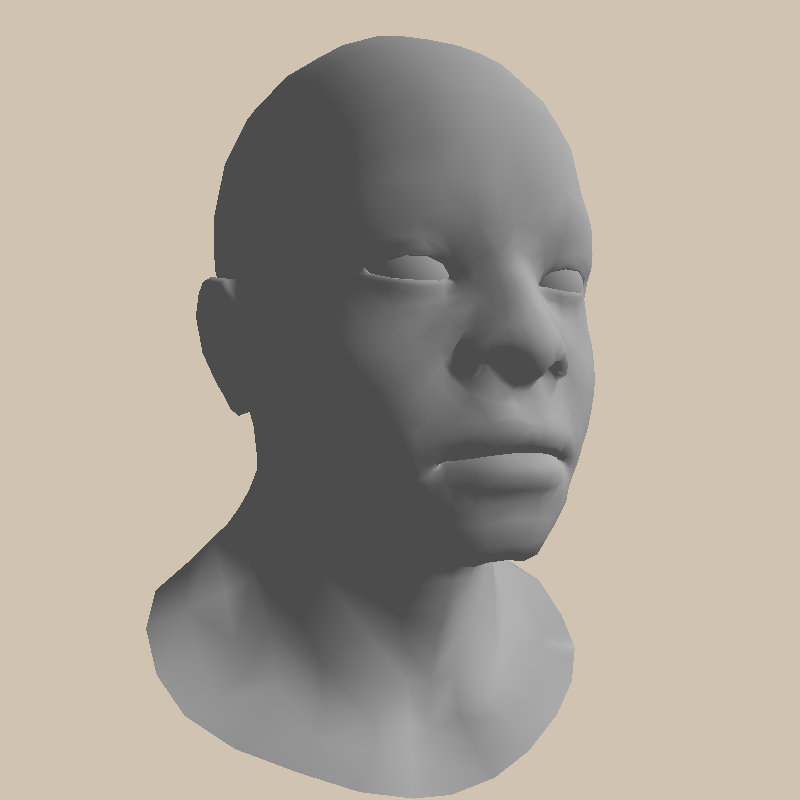
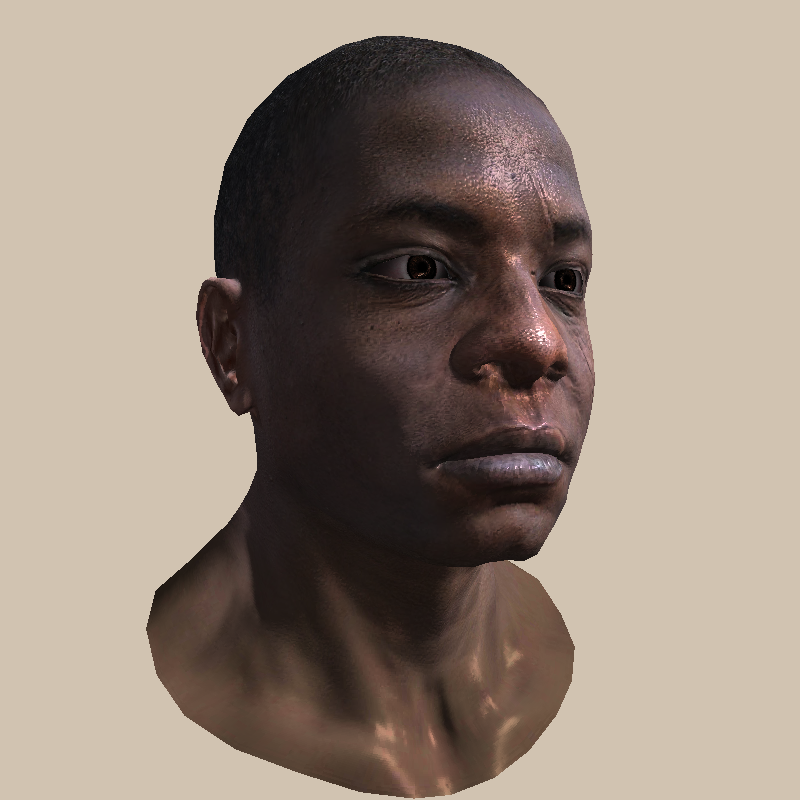
Add diffuse, normal and specular maps

diff --git a/main.cpp b/main.cpp
@@ -24,8 +24,8 @@ struct RandomShader : IShader
 	// Runs once per triangle corner: object coordinates in, clip coordinates out
 	vec4 vertex(const int face, const int vert)
 	{
-		vec3 v = model.vert(face, vert); // current vertex in object coordinates
-		vec4 gl_Position = ModelView * embed(v);
+		vec4 v = model.get_vert(face, vert); // current vertex in object coordinates
+		vec4 gl_Position = ModelView * v;
 		tri[vert] = gl_Position.xyz();	  // in eye coordinates
 		return Perspective * gl_Position; // in clip coordinates
 	}
@@ -39,68 +39,62 @@ struct RandomShader : IShader
 struct PhongShader : IShader
 {
 	const Model &model;
-	vec3 light_dir;
+	vec3 L;
+	vec3 camera;
 	double shine_exp;
-	bool smooth;
 
 	vec3 tri[3]; // triangle in eye coordinates
-	vec3 normal[3];
+	vec2 uv_tri[3];
 
-	PhongShader(const Model &model, const vec3 &light, double shine_exp)
+	PhongShader(const Model &model, const vec3 &light, double shine_exp, double cam_dist)
 		: model(model),
-		  light_dir(unit_v((ModelView * vec4{light.x, light.y, light.z, 0.}).xyz())),	// Eye coordinates
-		  shine_exp(shine_exp),
-		  smooth(true) {}
-
-	PhongShader(const Model &model, const vec3 &light, double shine_exp, bool smooth)
-		: model(model),
-		  light_dir(unit_v((ModelView * vec4{light.x, light.y, light.z, 0.}).xyz())),
-		  shine_exp(shine_exp),
-		  smooth(smooth) {}
+		  L(unit_v((ModelView * vec4{light.x, light.y, light.z, 0.})).xyz()),
+		  camera{0, 0, cam_dist},
+		  shine_exp(shine_exp)
+	{
+	}
 
 	vec4 vertex(const int face, const int vert)
 	{
-		vec3 v = model.vert(face, vert); // current vertex in object coordinates
-		vec4 gl_Position = ModelView * embed(v);
-		tri[vert] = gl_Position.xyz(); // in eye coordinates
-		normal[vert] = unit_v((ModelView * embed(model.get_normal(face, vert), 0)).xyz());
+		uv_tri[vert] = model.get_uv(face, vert);
+		vec4 gl_Position = ModelView * model.get_vert(face, vert);
+		tri[vert] = gl_Position.xyz();
 		return Perspective * gl_Position; // in clip coordinates
 	}
 
 	std::pair<bool, TGAColor> fragment(const vec3 bar) const override
 	{
-		TGAColor gl_FragColor = {255, 255, 255, 255}; // output color of the fragment
-		vec3 L = unit_v(light_dir);
-		vec3 N;
-		if (smooth)
-		{
-			N = unit_v(normal[0] * bar.x + normal[1] * bar.y + normal[2] * bar.z); // Smooth Shading
-		}
-		else
-		{
-			N = unit_v(cross((tri[1] - tri[0]), (tri[2] - tri[0]))); // Flat Shading
-		}
+		vec2 uv = uv_tri[0] * bar.x + uv_tri[1] * bar.y + uv_tri[2] * bar.z;
+		TGAColor gl_FragColor = model.get_color(uv);
+		if (gl_FragColor.bytespp == 4 && gl_FragColor[3] < 128)
+			return {true, {}};
+		double spec_map = model.get_specular(uv);
+		vec3 N = unit_v(ModelView * model.get_normal(uv)).xyz();
 		vec3 P = tri[0] * bar.x + tri[1] * bar.y + tri[2] * bar.z;
 
 		// Ambient
-		double ambient = .3;
+		double ambient = .4;
 
 		// Diffuse
 		double diffuse_dot = N * L;
 		double diffuse = std::max(0.0, diffuse_dot);
 
-		// Specula
 		double specular = 0.0;
 		if (diffuse_dot > 0.0)
 		{
 			vec3 R = unit_v(N * (2.0 * diffuse_dot) - L);
-			vec3 V = unit_v(-P);
+			vec3 V = unit_v(camera - P);
 			double cos_beta = std::max(0.0, R * V);
-			specular = std::pow(cos_beta, shine_exp);
+			specular = std::pow(cos_beta, shine_exp) * (0.5 + 2.0 * spec_map);
 		}
 
+		double total_light = ambient + diffuse + specular;
+
 		for (int channel : {0, 1, 2})
-			gl_FragColor[channel] *= std::min(1., ambient + .4 * diffuse + .9 * specular);
+		{
+			gl_FragColor[channel] = static_cast<unsigned char>(
+				std::min(255.0, gl_FragColor[channel] * total_light));
+		}
 		return {false, gl_FragColor}; // do not discard the pixel
 	}
 };
@@ -171,7 +165,7 @@ int main(int argc, char **argv)
 	for (int m = 1; m < argc; m++)
 	{						  // iterate through all input objects
 		Model model(argv[m]); // load the data
-		PhongShader shader(model, light, 35.0);
+		PhongShader shader(model, light, 35.0, norm(eye-center));
 		for (int f = 0; f < model.nfaces(); f++)
 		{										  // iterate through all facets
 			Triangle clip = {shader.vertex(f, 0), // assemble the primitive

diff --git a/model.cpp b/model.cpp
@@ -17,7 +17,7 @@ Model::Model(const std::string filename)
         if (!line.compare(0, 2, "v "))
         {
             iss >> trash;
-            vec3 v;
+            vec4 v = {0, 0, 0, 1};
             for (int i : {0, 1, 2})
                 iss >> v[i];
             verts.push_back(v);
@@ -26,10 +26,19 @@ Model::Model(const std::string filename)
         {
             std::string prefix;
             iss >> prefix;
-            vec3 v;
+            vec4 v;
             for (int i : {0, 1, 2})
                 iss >> v[i];
             normals.push_back(v);
+        }
+        else if (!line.compare(0, 3, "vt "))
+        {
+            std::string prefix;
+            iss >> prefix;
+            vec2 uv;
+            for (int i : {0, 1})
+                iss >> uv[i];
+            tex.push_back({uv.x, 1 - uv.y});
         }
         else if (!line.compare(0, 2, "f "))
         {
@@ -38,6 +47,7 @@ Model::Model(const std::string filename)
             while (iss >> f >> trash >> t >> trash >> n)
             {
                 facet_vrt.push_back(--f);
+                facet_tex.push_back(--t);
                 facet_nrm.push_back(--n);
                 cnt++;
             }
@@ -48,14 +58,46 @@ Model::Model(const std::string filename)
             }
         }
     }
-    std::clog << "# v# " << nverts() << " f# " << nfaces() << std::endl;
+    std::cerr << "# v# " << nverts() << " f# " << nfaces() << std::endl;
+    auto load_texture = [&filename](const std::string suffix, TGAImage &img)
+    {
+        size_t dot = filename.find_last_of(".");
+        if (dot == std::string::npos)
+            return;
+        std::string texfile = filename.substr(0, dot) + suffix;
+        std::cerr << "texture file " << texfile << " loading " << (img.read_tga_file(texfile.c_str()) ? "ok" : "failed") << std::endl;
+    };
+    load_texture("_nm.tga", normalmap);
+    load_texture("_diffuse.tga", diffusemap);
+    load_texture("_spec.tga", specularmap);
 }
 
 int Model::nverts() const { return verts.size(); }
 int Model::nfaces() const { return facet_vrt.size() / 3; }
 
-vec3 Model::vert(const int i) const { return verts[i]; }
-vec3 Model::vert(const int iface, const int nthvert) const { return verts[facet_vrt[iface * 3 + nthvert]]; }
+vec4 Model::get_vert(const int i) const { return verts[i]; }
+vec4 Model::get_vert(const int iface, const int nthvert) const { return verts[facet_vrt[iface * 3 + nthvert]]; }
 
-vec3 Model::get_normal(const int i) const { return normals[i]; }
-vec3 Model::get_normal(const int iface, const int nthvert) const { return normals[facet_nrm[iface * 3 + nthvert]]; }
+vec4 Model::get_normal(const vec2 &uv) const
+{
+    TGAColor c = normalmap.get(uv[0] * normalmap.width(), uv[1] * normalmap.height());
+    return vec4{(double)c[2], (double)c[1], (double)c[0], 0} * 2. / 255. - vec4{1, 1, 1, 0};
+}
+
+TGAColor Model::get_color(const vec2 &uv) const
+{
+    TGAColor c = diffusemap.get(uv[0] * diffusemap.width(), uv[1] * diffusemap.height());
+    return c;
+}
+
+double Model::get_specular(const vec2 &uv) const
+{
+    return specularmap.get(uv[0] * specularmap.width(), uv[1] * specularmap.height())[0] / 255.0;
+}
+
+vec4 Model::get_normal(const int iface, const int nthvert) const { return normals[facet_nrm[iface * 3 + nthvert]]; }
+
+vec2 Model::get_uv(const int iface, const int nthvert) const
+{
+    return tex[facet_tex[iface * 3 + nthvert]];
+}

diff --git a/model.h b/model.h
@@ -1,21 +1,32 @@
 #include <vector>
 #include <string>
 #include "geometry.h"
+#include "tgaimage.h"
 
 class Model
 {
-    std::vector<vec3> verts = {};
+    std::vector<vec4> verts = {};
     std::vector<int> facet_vrt = {};
 
-    std::vector<vec3> normals = {};
+    std::vector<vec4> normals = {};
     std::vector<int> facet_nrm = {};
+
+    std::vector<vec2> tex = {};
+    std::vector<int> facet_tex = {};
+
+    TGAImage normalmap = {};
+    TGAImage diffusemap = {};
+    TGAImage specularmap = {};
 
 public:
     Model(const std::string filename);
     int nverts() const;
     int nfaces() const;
-    vec3 vert(const int i) const;
-    vec3 vert(const int iface, const int nthvert) const;
-    vec3 get_normal(const int i) const;
-    vec3 get_normal(const int iface, const int nthvert) const;
+    vec4 get_vert(const int i) const;
+    vec4 get_vert(const int iface, const int nthvert) const;
+    vec4 get_normal(const vec2 &uv) const;
+    vec4 get_normal(const int iface, const int nthvert) const;
+    TGAColor get_color(const vec2 &uv) const;
+    double get_specular(const vec2 &uv) const;
+    vec2 get_uv(const int iface, const int nthvert) const;
 };

diff --git a/gl.h b/gl.h
@@ -6,7 +6,7 @@
 #include "geometry.h"
 
 extern mat<4, 4> ModelView, Viewport, Perspective; // state matrices
-extern std::vector<double> zbuffer;				   // depth buffer
+extern std::vector<double> zbuffer;                // depth buffer
 
 // What every z-buffer cell holds until a fragment is written there.
 // Shared so that init_zbuffer() and anything that reads the buffer agree on it.
@@ -19,9 +19,12 @@ void init_zbuffer(const int width, const int height);
 
 struct IShader
 {
-	virtual ~IShader() = default;
-	// bar: barycentric coordinates of the fragment. Returns {discard, color}
-	virtual std::pair<bool, TGAColor> fragment(const vec3 bar) const = 0;
+    static TGAColor sample2D(const TGAImage &img, const vec2 &uvf)
+    {
+        return img.get(uvf[0] * img.width(), uvf[1] * img.height());
+    }
+    // bar: barycentric coordinates of the fragment. Returns {discard, color}
+    virtual std::pair<bool, TGAColor> fragment(const vec3 bar) const = 0;
 };
 
 typedef vec4 Triangle[3]; // a triangle primitive is made of three ordered points

diff --git a/README.md b/README.md
@@ -7,15 +7,16 @@ A CPU software rasterizer written in C++ with no external graphics libraries, bu
 
 ## Features
 
-- **Mesh Processing & OBJ Loader**: Parses OBJ models with vertices, normals, and triangulated faces.
+- **Mesh Processing & OBJ Loader**: Parses OBJ models with vertices, normals, texture coordinates, and triangulated faces, and loads the model's texture maps automatically (see [Textures](#textures)).
 - **Linear Algebra Library**: Custom vector and matrix math classes supporting arbitrary dimensions, matrix multiplication, determinants, and matrix transposition/inversion.
 - **Transformation Pipeline**: Complete camera look-at positioning (`ModelView`), perspective projection (`Perspective`), and viewport mapping (`Viewport`).
 - **Triangle Rasterization**: Barycentric coordinate evaluation with bounding-box clipping and backface culling.
 - **Z-Buffering**: Per-pixel depth interpolation and depth testing for accurate hidden-surface removal.
 - **Shading & Lighting**:
-  - Programmable shader interface (`IShader`).
-  - Flat and smooth normal interpolation.
+  - Programmable shader interface (`IShader`) with vertex and fragment stages.
   - Full Phong reflection model combining ambient, diffuse, and specular light components.
+  - Texture mapping with a diffuse color map, a normal map for per-pixel normals, and a specular map that controls how shiny each part of the surface is.
+  - Alpha cutout: fragments from transparent texels are discarded, so meshes such as an eye's cornea don't cover what is behind them.
 - **Performance**: Multi-threaded pixel rasterization powered by OpenMP.
 - **Output Visualization**: Color framebuffer and normalized grayscale depth buffer exported as TGA images.
 
@@ -30,7 +31,33 @@ cmake --build build -j
 ```
 
 The rendered image is saved to `framebuffer.tga` and the visualized depth buffer is written to `zbuffer.tga`.
-The loader expects triangulated OBJ files. Models are not included in this repository.
+
+Several OBJ files can be passed at once. They are drawn into the same image and depth buffer, which is how a head and its separate eye meshes are rendered together:
+
+```bash
+./build/tinyrenderer path/to/head.obj path/to/eye.obj
+```
+
+The loader expects triangulated OBJ files whose faces use the `v/vt/vn` form (vertex, texture coordinate and normal indices). Models are not included in this repository.
+
+## Textures
+
+For a model `path/name.obj`, the loader looks next to the OBJ for three TGA files. Each name is built by dropping the `.obj` extension and appending a suffix:
+
+| File | Suffix | Used for |
+|---|---|---|
+| `path/name_diffuse.tga` | `_diffuse.tga` | Base surface color |
+| `path/name_nm.tga` | `_nm.tga` | Normal map: RGB channels are the XYZ components of the normal |
+| `path/name_spec.tga` | `_spec.tga` | Specular map: scales the intensity of the highlight (one channel is read) |
+
+For example, `african_head.obj` is rendered with `african_head_diffuse.tga`, `african_head_nm.tga` and `african_head_spec.tga`.
+
+Notes:
+
+- The normal map must be in **object (global) coordinates**. Tangent-space normal maps, such as the course's `_nm_tangent.tga` files, are not supported.
+- Uncompressed and RLE-compressed TGA files are both accepted.
+- The loader prints a message saying whether each file loaded. All three maps are expected: a missing one leaves that map empty, which gives a black diffuse color and wrong normals, so the model will not render correctly.
+- A 32-bit diffuse map is treated as having an alpha channel, and texels with alpha below 128 are discarded. Maps with 24 bits per pixel are always opaque.
 
 ## Credits
 
